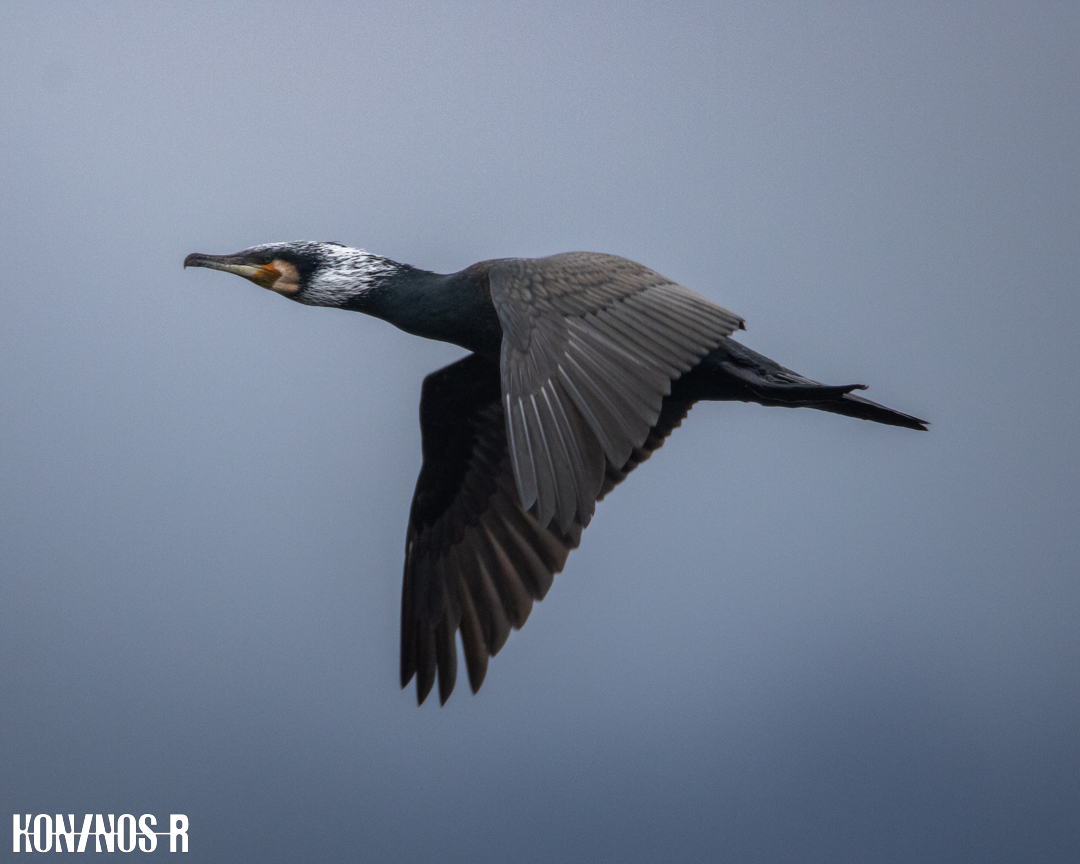
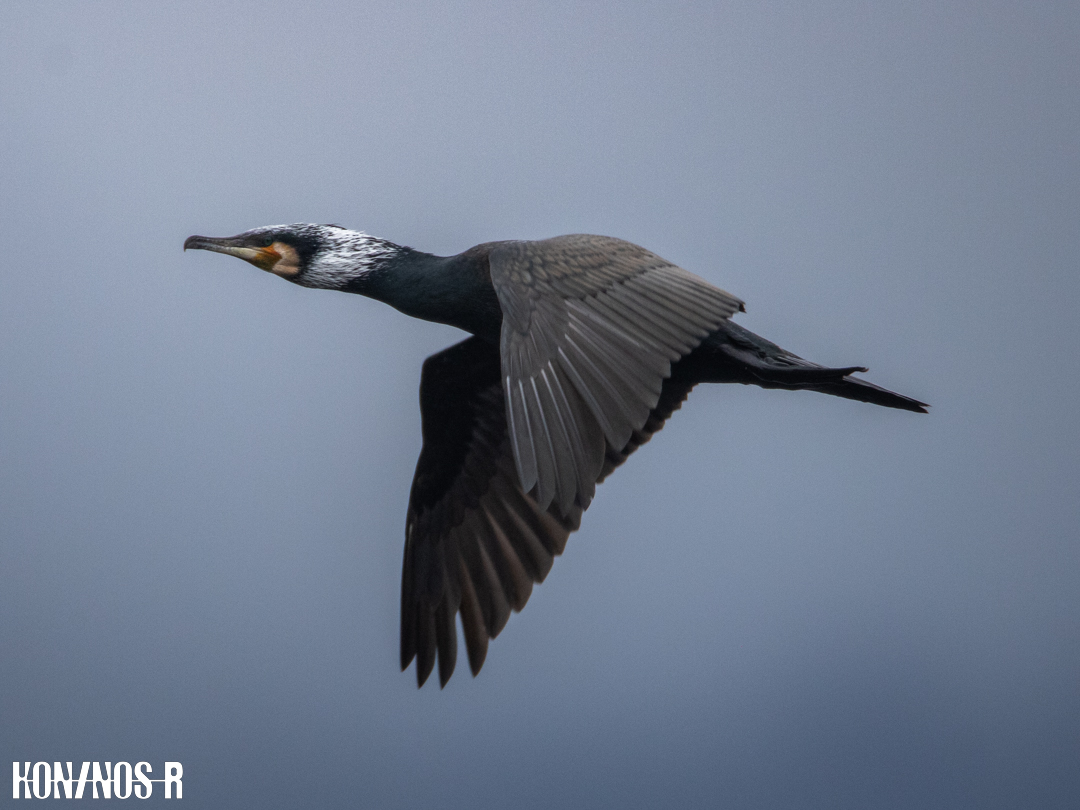
Made test pages for cs and photo, removed footer from index and added a better image

diff --git a/style.css b/style.css
@@ -16,6 +16,16 @@ header {
     padding: 25px;
 }
 
+footer {
+    background-color: #3c0064;
+}
+
+footer a {
+    padding-left: 5px;
+    color: #12001e;
+    text-decoration: none;
+}
+
 /* SHARED */
 .content {
     flex: 1;
@@ -58,7 +68,7 @@ header {
 /* HOME */
 .outer-container {
     width: 95%;
-    margin-top: 15px;
+    margin-top: 10px;
     border-radius: 18px;
     overflow: hidden;
     box-shadow: 0 0 15px rgba(0,0,0,0.25);
@@ -136,10 +146,6 @@ header {
     filter: brightness(0.92);
 }
 
-
-
-
-
 @media (max-width: 800px) {
     .hero {
         flex-direction: column;
@@ -151,7 +157,32 @@ header {
     }
 }
 
+/* SUBPAGES */
+.cs_card {
+    margin-top: 5px;
+    min-width: 900px;
+    width: 95%;
+    padding: 2rem;
+    background: #eddbff;
+    color: #12001e;
+    border-radius: 18px;
+    box-shadow: 0 0 15px rgba(0, 0, 0, 0.25);
 
+    animation: fadeUp 0.6s ease forwards;
+}
+
+.ph_card {
+    margin-top: 5px;
+    min-width: 900px;
+    width: 95%;
+    padding: 2rem;
+    background: #dbedff;
+    color: #12001e;
+    border-radius: 18px;
+    box-shadow: 0 0 15px rgba(0, 0, 0, 0.25);
+
+    animation: fadeUp 0.6s ease forwards;
+}
 
 /* ANIMATIONS */
 @keyframes fadeUp {

diff --git a/computer-science.html b/computer-science.html
@@ -21,11 +21,16 @@
         </header>
 
         <div class="content">
-            
+            <div class="cs_card">
+                test
+                <br>
+                <br>
+                test
+            </div>
         </div>
 
         <footer>
-            
+            <a href="index.html">Back to Home Page</a>
         </footer>
     </body>
 </html>

diff --git a/photography.html b/photography.html
@@ -21,11 +21,16 @@
         </header>
 
         <div class="content">
-
+            <div class="ph_card">
+                test
+                <br>
+                <br>
+                test
+            </div>
         </div>
 
         <footer>
-            
+            <a href="index.html">Back to Home Page</a>
         </footer>
     </body>
 </html>

diff --git a/index.html b/index.html
@@ -35,12 +35,7 @@
                 </div>
             </div>
         </div>
-
-        <footer>
-
-        </footer>
-
-        
+     
         <script>
         function setHero(section) {
             const hero = document.getElementById("hero");
